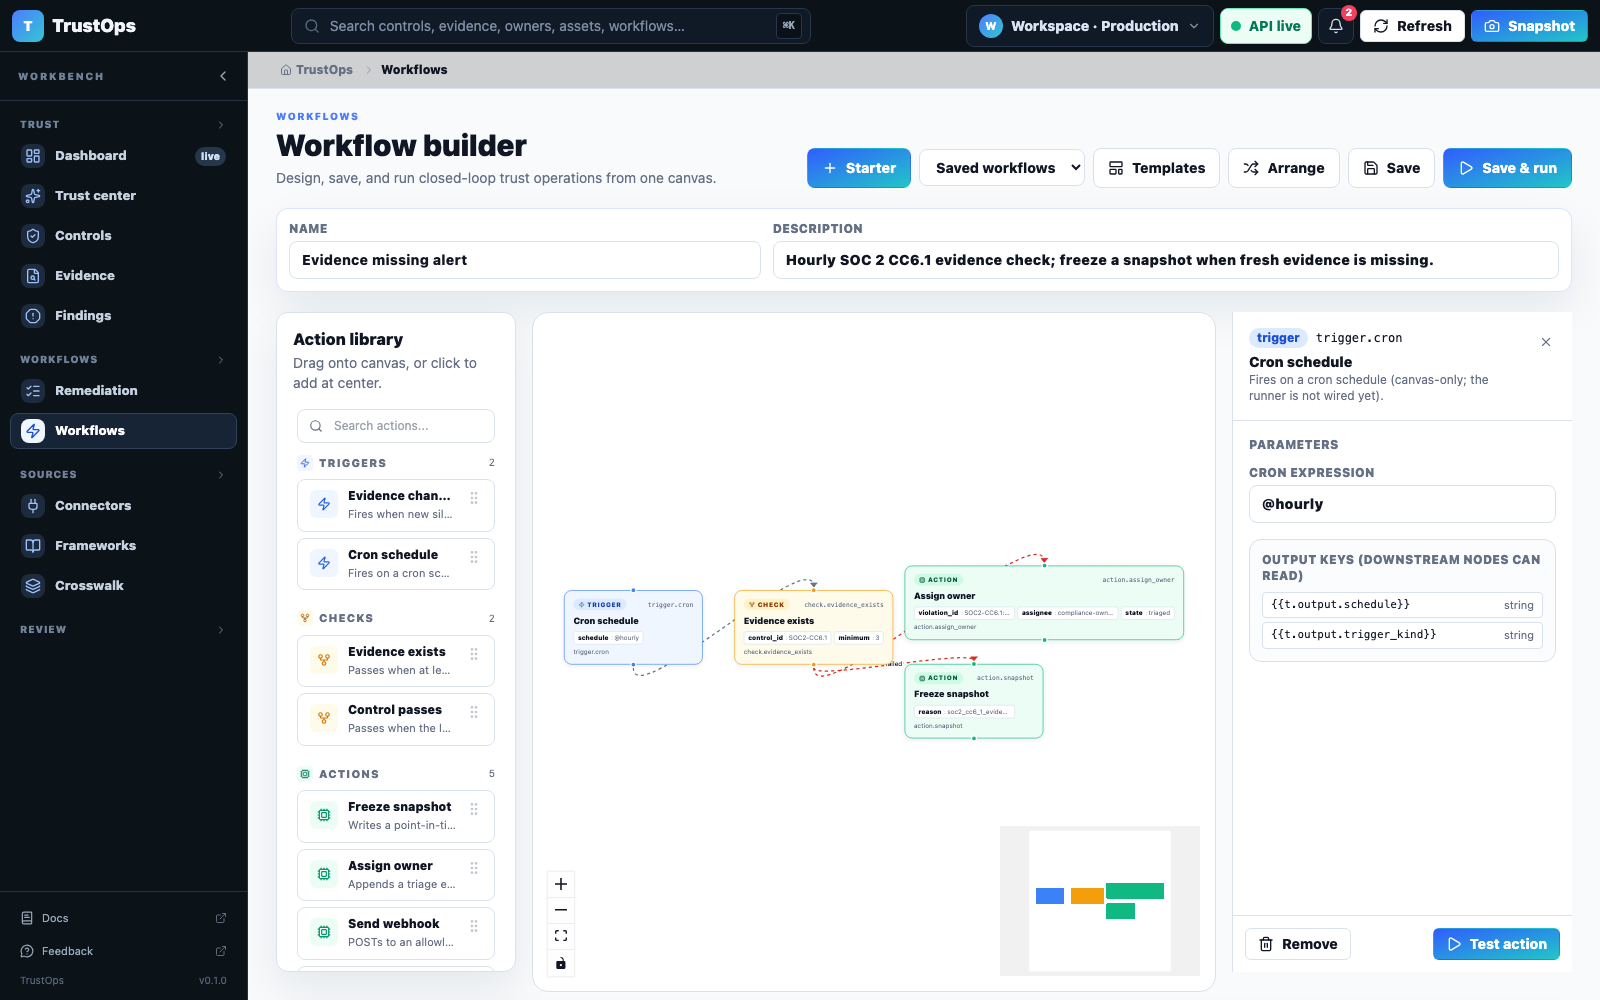
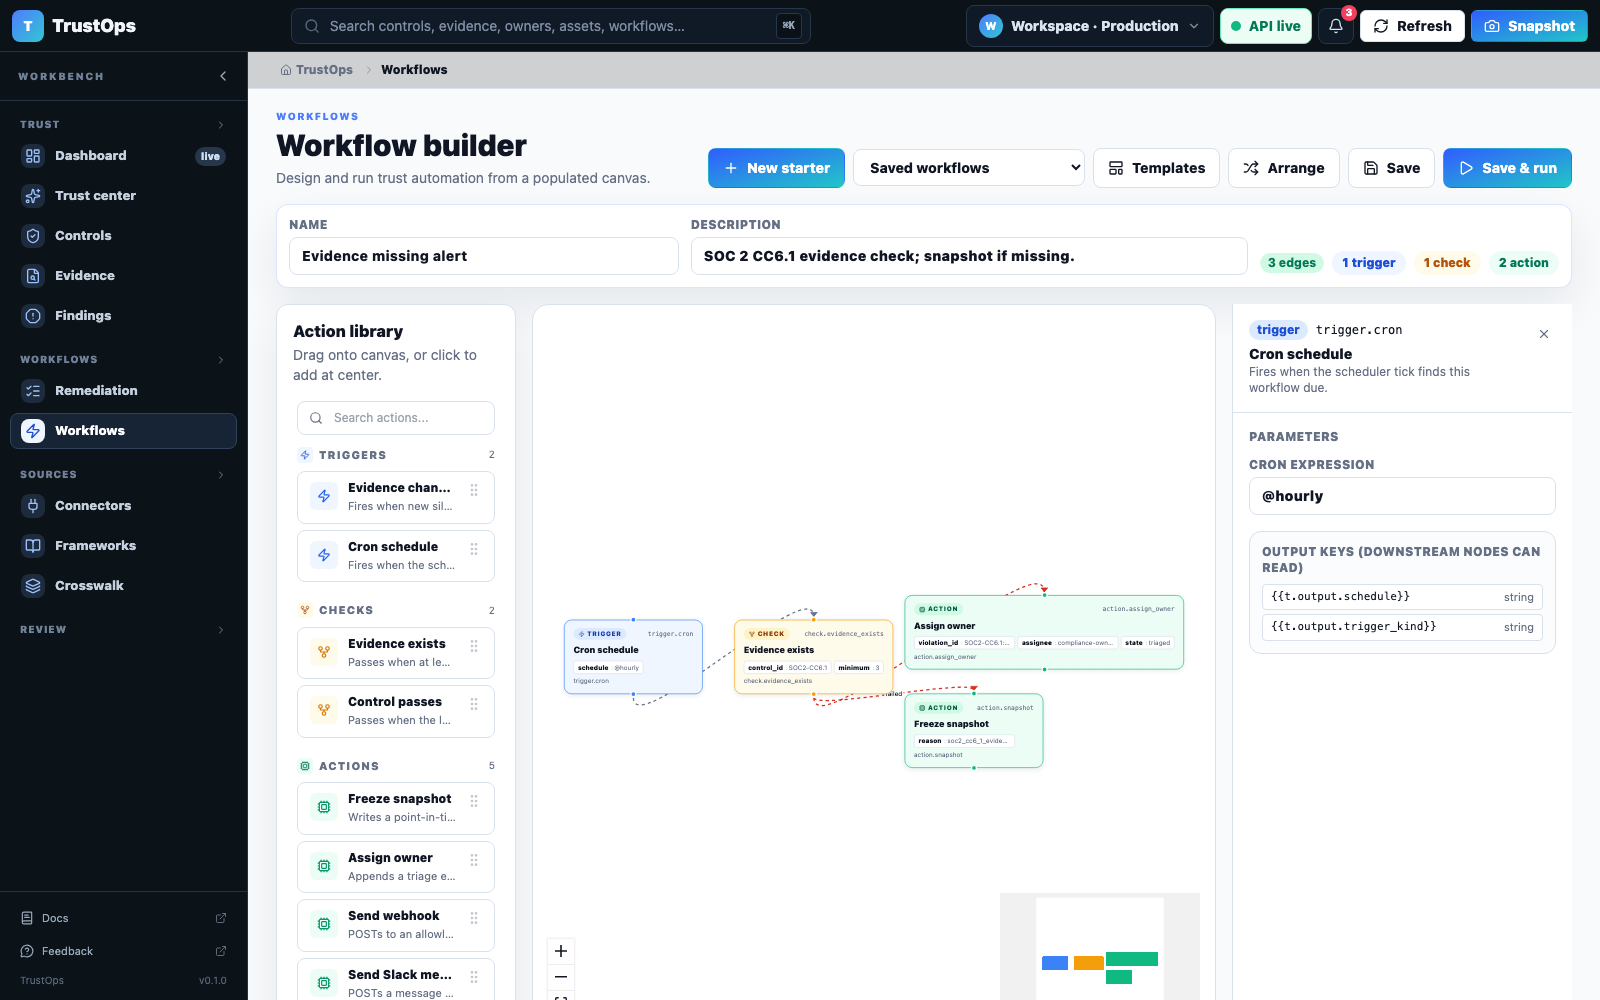
feat(workflows): prioritize builder canvas (#226)

diff --git a/app/web/src/app/automation/page.tsx b/app/web/src/app/automation/page.tsx
@@ -1,9 +1,8 @@
 "use client";
 
-import { Fragment, useCallback, useEffect, useMemo, useState } from "react";
+import { useCallback, useEffect, useMemo, useState } from "react";
 import { MarkerType, type Edge } from "@xyflow/react";
 import {
-  ArrowRight,
   LayoutTemplate,
   Loader2,
   Play,
@@ -218,7 +217,13 @@ function toApiEdges(edges: Edge[]) {
   }));
 }
 
-function WorkflowSpine({ nodes, edges }: { nodes: FlowNode[]; edges: Edge[] }) {
+function WorkflowHealthStrip({
+  nodes,
+  edges,
+}: {
+  nodes: FlowNode[];
+  edges: Edge[];
+}) {
   const counts = {
     triggers: nodes.filter((n) => n.data.kind === "trigger").length,
     checks: nodes.filter((n) => n.data.kind === "check").length,
@@ -226,66 +231,86 @@ function WorkflowSpine({ nodes, edges }: { nodes: FlowNode[]; edges: Edge[] }) {
     edges: edges.length,
   };
   const connected = counts.edges > 0 || nodes.length <= 1;
-  const stages = [
-    {
-      label: "Trigger",
-      value: counts.triggers,
-      detail: "evidence changed, cron, or webhook",
-    },
-    {
-      label: "Check",
-      value: counts.checks,
-      detail: "control pass, evidence exists, branch conditions",
-    },
-    {
-      label: "Action",
-      value: counts.actions,
-      detail: "assign owner, create ticket, freeze snapshot, notify",
-    },
-  ];
 
   return (
-    <section className="grid gap-2 rounded-xl border border-line bg-white p-3 shadow-card">
-      <div className="flex flex-wrap items-center justify-between gap-2">
-        <div>
-          <h2 className="text-sm font-black text-ink">
-            Workflow connection map
-          </h2>
-          <p className="mt-0.5 text-xs leading-5 text-muted">
-            A workflow is a directed graph: trigger inputs, check branches, and
-            actions write back to remediation, snapshots, audit, or external
-            systems.
-          </p>
+    <div className="flex flex-wrap items-center gap-2 text-xs">
+      <Badge tone={connected ? "ready" : "attention"}>
+        {connected ? `${counts.edges} edges` : "connect nodes"}
+      </Badge>
+      <span className="rounded-full bg-blue-50 px-2.5 py-1 font-black text-blue-700">
+        {counts.triggers} trigger
+      </span>
+      <span className="rounded-full bg-amber-50 px-2.5 py-1 font-black text-amber-700">
+        {counts.checks} check
+      </span>
+      <span className="rounded-full bg-emerald-50 px-2.5 py-1 font-black text-emerald-700">
+        {counts.actions} action
+      </span>
+    </div>
+  );
+}
+
+function RunnerContract({
+  nodes,
+  edges,
+}: {
+  nodes: FlowNode[];
+  edges: Edge[];
+}) {
+  return (
+    <details className="group rounded-xl border border-line bg-white shadow-card">
+      <summary className="flex cursor-pointer list-none items-center justify-between gap-3 px-4 py-3">
+        <div className="min-w-0">
+          <div className="text-sm font-black text-ink">
+            Workflow runner contract
+          </div>
+          <div className="truncate text-xs text-muted">
+            Same saved DAG for UI, API, scheduler, CLI, MCP tools, and agents.
+          </div>
         </div>
-        <Badge tone={connected ? "ready" : "attention"}>
-          {connected ? `${counts.edges} connected edges` : "connect nodes"}
-        </Badge>
-      </div>
-      <div className="grid gap-2 lg:grid-cols-[1fr_auto_1fr_auto_1fr] lg:items-stretch">
-        {stages.map((stage, idx) => (
-          <Fragment key={stage.label}>
-            <div className="rounded-lg border border-line bg-panel p-3">
-              <div className="flex items-center justify-between gap-2">
-                <span className="text-[11px] font-black uppercase tracking-wide text-muted">
-                  {stage.label}
-                </span>
-                <span className="text-lg font-black tabular-nums text-ink">
-                  {stage.value}
-                </span>
+        <WorkflowHealthStrip nodes={nodes} edges={edges} />
+      </summary>
+      <div className="border-t border-line p-4">
+        <div className="grid gap-3 lg:grid-cols-[auto_minmax(0,1fr)] lg:items-start">
+          <span className="grid h-10 w-10 place-items-center rounded-lg bg-panel text-brand ring-1 ring-line">
+            <ServerCog className="h-5 w-5" />
+          </span>
+          <div className="min-w-0">
+            <p className="text-sm leading-5 text-muted">
+              Save writes an append-only workflow version to{" "}
+              <code>gold/workflows.jsonl</code>. Run executes the same DAG
+              through the backend workflow engine, enforces RBAC and egress
+              guards, writes results to <code>gold/workflow_runs.jsonl</code>,
+              and exposes the run through human and headless surfaces.
+            </p>
+            <div className="mt-3 grid gap-2 text-xs md:grid-cols-4">
+              <div className="rounded-lg border border-line bg-panel p-2">
+                <b className="text-ink">Human</b>
+                <div className="mt-1 text-muted">
+                  Design, approve, run, inspect.
+                </div>
               </div>
-              <p className="mt-1 text-xs leading-5 text-slate-600">
-                {stage.detail}
-              </p>
+              <div className="rounded-lg border border-line bg-panel p-2">
+                <b className="text-ink">Headless</b>
+                <div className="mt-1 text-muted">REST/CLI run saved DAGs.</div>
+              </div>
+              <div className="rounded-lg border border-line bg-panel p-2">
+                <b className="text-ink">Scheduler</b>
+                <div className="mt-1 text-muted">
+                  Cron triggers fire due flows.
+                </div>
+              </div>
+              <div className="rounded-lg border border-line bg-panel p-2">
+                <b className="text-ink">Agents</b>
+                <div className="mt-1 text-muted">
+                  MCP lists and runs workflows.
+                </div>
+              </div>
             </div>
-            {idx < stages.length - 1 && (
-              <div className="hidden items-center justify-center text-muted lg:flex">
-                <ArrowRight className="h-5 w-5" />
-              </div>
-            )}
-          </Fragment>
-        ))}
+          </div>
+        </div>
       </div>
-    </section>
+    </details>
   );
 }
 
@@ -492,15 +517,15 @@ export default function AutomationPage() {
   }, [lastRun, selectedNode]);
 
   return (
-    <div className="grid min-w-0 gap-5 px-4 py-5 sm:px-5 lg:px-7">
+    <div className="grid min-w-0 gap-4 px-4 py-5 sm:px-5 lg:px-7">
       <PageHeader
         eyebrow="Workflows"
         title="Workflow builder"
-        description="Design, save, and run closed-loop trust operations from one canvas."
+        description="Design and run trust automation from a populated canvas."
         actions={
           <div className="flex min-w-0 flex-wrap items-center gap-2">
             <Button variant="primary" onClick={startNewWorkflow}>
-              <Plus className="h-4 w-4" /> Starter
+              <Plus className="h-4 w-4" /> New starter
             </Button>
             <select
               value={activeId === NEW_WORKFLOW_ID ? "" : activeId}
@@ -568,7 +593,7 @@ export default function AutomationPage() {
       />
 
       <Card className="overflow-hidden border-brand/20">
-        <div className="grid gap-3 p-3 sm:grid-cols-[minmax(220px,0.75fr)_minmax(260px,1.25fr)]">
+        <div className="grid gap-3 p-3 xl:grid-cols-[minmax(220px,0.7fr)_minmax(280px,1fr)_auto] xl:items-end">
           <label className="grid gap-1 text-xs font-black uppercase tracking-wide text-muted">
             Name
             <input
@@ -591,6 +616,9 @@ export default function AutomationPage() {
               disabled={auditor}
             />
           </label>
+          <div className="flex min-w-0 items-center xl:justify-end">
+            <WorkflowHealthStrip nodes={editor.nodes} edges={editor.edges} />
+          </div>
         </div>
       </Card>
 
@@ -619,49 +647,7 @@ export default function AutomationPage() {
         />
       </div>
 
-      <WorkflowSpine nodes={editor.nodes} edges={editor.edges} />
-
-      <Card className="grid gap-3 p-4 lg:grid-cols-[auto_minmax(0,1fr)] lg:items-start">
-        <span className="grid h-10 w-10 place-items-center rounded-lg bg-panel text-brand ring-1 ring-line">
-          <ServerCog className="h-5 w-5" />
-        </span>
-        <div className="min-w-0">
-          <div className="text-sm font-black text-ink">
-            One runner for UI, API, scheduler, CLI, and agents
-          </div>
-          <p className="mt-1 text-sm leading-5 text-muted">
-            Save writes an append-only workflow version to{" "}
-            <code>gold/workflows.jsonl</code>. Run executes the same DAG through
-            the backend workflow engine, enforces RBAC and egress guards, writes
-            results to <code>gold/workflow_runs.jsonl</code>, and exposes the
-            run through the console, REST API, CLI, scheduler, and MCP tools.
-          </p>
-          <div className="mt-3 grid gap-2 text-xs md:grid-cols-4">
-            <div className="rounded-lg border border-line bg-panel p-2">
-              <b className="text-ink">Human</b>
-              <div className="mt-1 text-muted">
-                Design, approve, run, inspect.
-              </div>
-            </div>
-            <div className="rounded-lg border border-line bg-panel p-2">
-              <b className="text-ink">Headless</b>
-              <div className="mt-1 text-muted">REST/CLI run saved DAGs.</div>
-            </div>
-            <div className="rounded-lg border border-line bg-panel p-2">
-              <b className="text-ink">Scheduler</b>
-              <div className="mt-1 text-muted">
-                Cron triggers fire due flows.
-              </div>
-            </div>
-            <div className="rounded-lg border border-line bg-panel p-2">
-              <b className="text-ink">Agents</b>
-              <div className="mt-1 text-muted">
-                MCP lists and runs workflows.
-              </div>
-            </div>
-          </div>
-        </div>
-      </Card>
+      <RunnerContract nodes={editor.nodes} edges={editor.edges} />
 
       <Card className="overflow-hidden">
         <CardHeader>

diff --git a/app/web/src/components/workflow/NodeConfigPanel.tsx b/app/web/src/components/workflow/NodeConfigPanel.tsx
@@ -65,7 +65,7 @@ export function NodeConfigPanel({
 
   if (!node || !spec) {
     return (
-      <aside className="grid min-h-[160px] w-full place-items-center rounded-2xl border border-line bg-white text-xs text-muted 2xl:min-h-[500px] 2xl:w-[340px] 2xl:rounded-none 2xl:border-y-0 2xl:border-r-0">
+      <aside className="grid min-h-[160px] w-full place-items-center rounded-2xl border border-line bg-white text-xs text-muted 2xl:min-h-[560px] 2xl:w-[340px] 2xl:rounded-none 2xl:border-y-0 2xl:border-r-0">
         <div className="px-6 text-center">
           <ChevronRight className="mx-auto mb-2 h-4 w-4 text-muted" />
           Select a node in the canvas to inspect and edit it here.
@@ -93,7 +93,7 @@ export function NodeConfigPanel({
   };
 
   return (
-    <aside className="grid max-h-[min(660px,calc(100dvh-315px))] min-h-[420px] w-full grid-rows-[auto_minmax(0,1fr)_auto] overflow-hidden rounded-2xl border border-line bg-white 2xl:min-h-[500px] 2xl:w-[340px] 2xl:rounded-none 2xl:border-y-0 2xl:border-r-0">
+    <aside className="grid max-h-[min(760px,calc(100dvh-245px))] min-h-[560px] w-full grid-rows-[auto_minmax(0,1fr)_auto] overflow-hidden rounded-2xl border border-line bg-white 2xl:w-[340px] 2xl:rounded-none 2xl:border-y-0 2xl:border-r-0">
       <header className="flex items-start justify-between gap-3 border-b border-line p-4">
         <div className="min-w-0">
           <div className="flex items-center gap-2">

diff --git a/app/web/src/components/workflow/ActionPalette.tsx b/app/web/src/components/workflow/ActionPalette.tsx
@@ -78,7 +78,7 @@ export function ActionPalette({ catalog, onAdd }: Props) {
   const hasResults = KIND_ORDER.some((k) => byKind(k).length > 0);
 
   return (
-    <Card className="flex max-h-[min(660px,calc(100dvh-315px))] min-h-[500px] flex-col overflow-hidden">
+    <Card className="flex max-h-[min(760px,calc(100dvh-245px))] min-h-[560px] flex-col overflow-hidden">
       <CardHeader className="shrink-0">
         <CardTitle>Action library</CardTitle>
         <CardDescription>

diff --git a/app/web/src/lib/workflow/templates.ts b/app/web/src/lib/workflow/templates.ts
@@ -97,8 +97,7 @@ export const WORKFLOW_TEMPLATES: WorkflowTemplate[] = [
   {
     id: "evidence-missing-alert",
     name: "Evidence missing alert",
-    description:
-      "Hourly SOC 2 CC6.1 evidence check; freeze a snapshot when fresh evidence is missing.",
+    description: "SOC 2 CC6.1 evidence check; snapshot if missing.",
     tags: ["scheduled", "alert"],
     nodes: [
       node("t", "trigger.cron", { schedule: "@hourly" }, 90, 220),

diff --git a/app/web/src/components/workflow/WorkflowCanvas.tsx b/app/web/src/components/workflow/WorkflowCanvas.tsx
@@ -478,7 +478,7 @@ export function WorkflowCanvas({
 
   return (
     <div
-      className="relative h-[min(680px,calc(100dvh-255px))] min-h-[460px] overflow-hidden rounded-2xl border border-line bg-white"
+      className="relative h-[min(760px,calc(100dvh-245px))] min-h-[560px] overflow-hidden rounded-2xl border border-line bg-white"
       onDragOver={handleDragOver}
       onDrop={handleDrop}
     >

diff --git a/src/security_lakehouse/workflows.py b/src/security_lakehouse/workflows.py
@@ -17,7 +17,7 @@ Persistence
 Action library (the registry is the extension point):
 
   trigger.evidence_changed     fires when new silver events land
-  trigger.cron                 fires on a cron schedule (informational)
+  trigger.cron                 fires on a cron schedule via scheduler tick
   check.evidence_exists        passes when N silver events match a filter
   check.control_pass           passes when a control_id's latest test is "pass"
   action.snapshot              freezes a point-in-time assessment snapshot
@@ -568,7 +568,7 @@ ACTION_LIBRARY: dict[str, dict[str, Any]] = {
     "trigger.cron": {
         "kind": "trigger",
         "label": "Cron schedule",
-        "description": "Fires on a cron schedule (canvas-only; the runner is not wired yet).",
+        "description": "Fires when the scheduler tick finds this workflow due.",
         "input_schema": {"schedule": {"type": "string", "label": "Cron expression", "default": "@hourly"}},
         "output_schema": {"trigger_kind": "string", "schedule": "string"},
         "handler": _cron,
